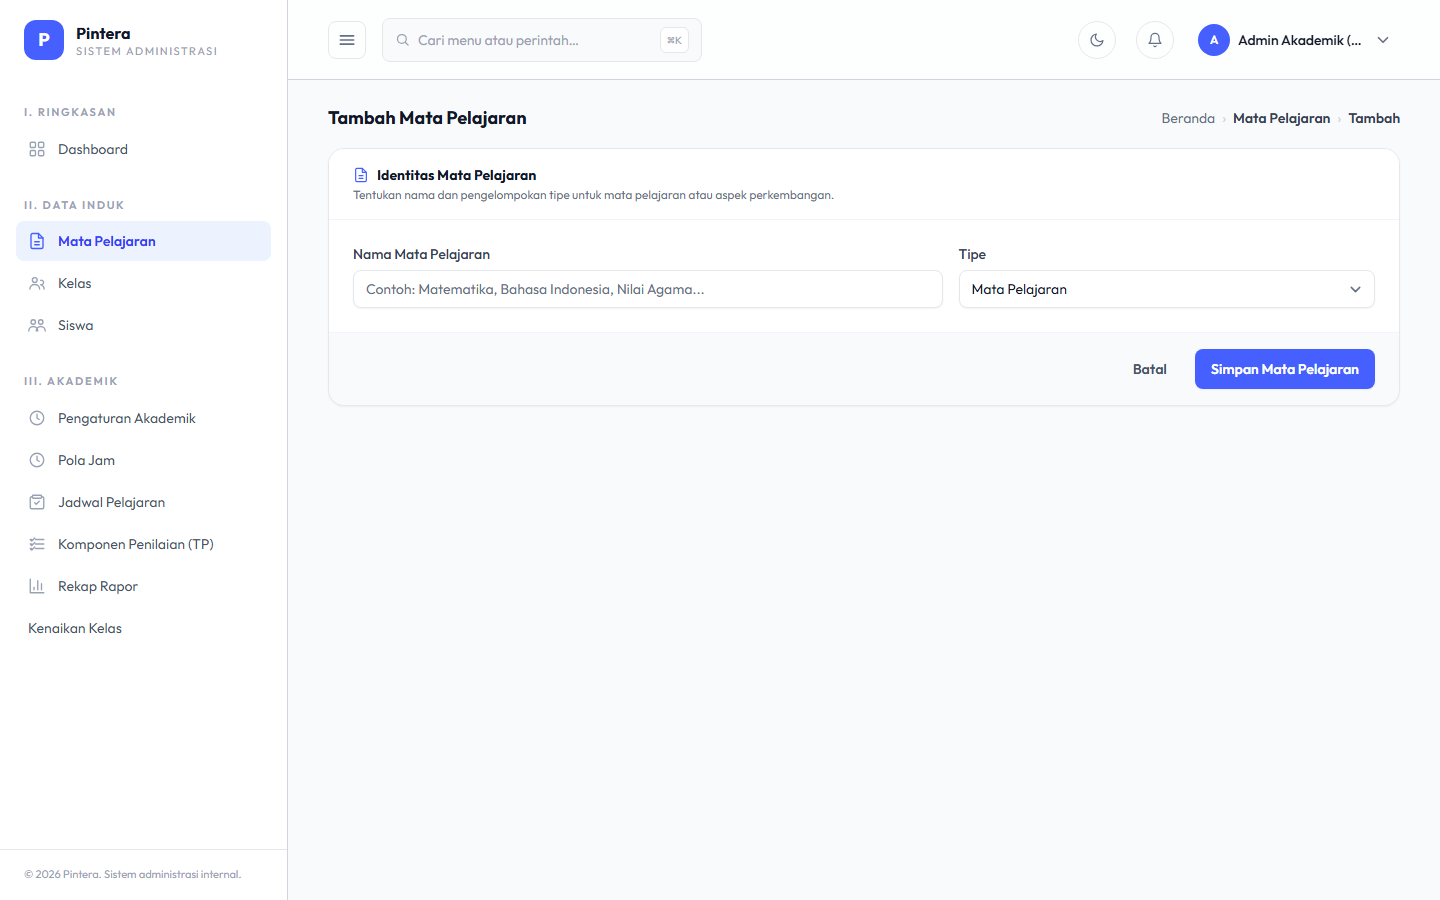
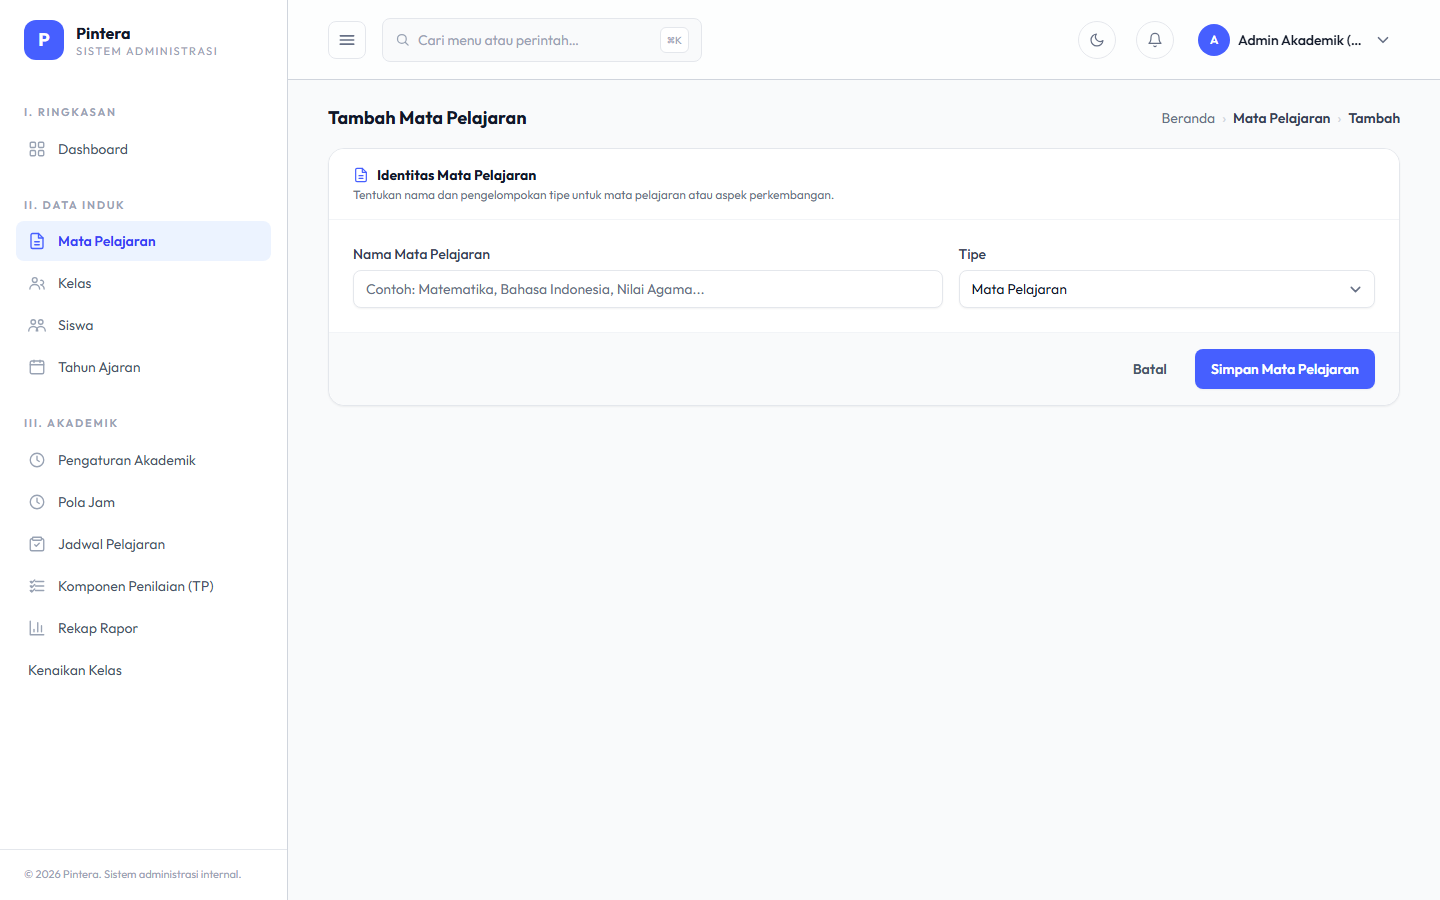
fix: correct Bab 1 to use admin_akademik for Tahun Ajaran & Semester
Now that admin_akademik has the tahun-ajaran/semester permissions (prior
commit), re-captured 01-01 with the intended akademik account instead of
the yayasan workaround, and rewrote the chapter text to match. Also fixed
the shared screenshot script: login() hung when switching accounts within
one run because a second /login visit while already authenticated never
renders the form. The script now opens a fresh browser context per
account switch instead of reusing one page/context across accounts.

Changed region(s): [[0.0, 0.5911, 0.1562, 0.7467], [0.0, 0.4044, 0.125, 0.56]]

diff --git a/docs/manual-book/akademik/01-data-master.md b/docs/manual-book/akademik/01-data-master.md
@@ -2,9 +2,7 @@
 
 ## Untuk siapa
 
-Admin Akademik (`admin_akademik`), per Lembaga. Bagian **Tahun Ajaran & Semester**
-di bawah ini dikecualikan — itu dikelola oleh Yayasan (`yayasan_super_admin`), bukan
-Admin Akademik; disertakan di sini karena semua data lain di bab ini bergantung padanya.
+Admin Akademik (`admin_akademik`), per Lembaga.
 
 ## Prasyarat
 
@@ -13,15 +11,14 @@ Admin Akademik; disertakan di sini karena semua data lain di bab ini bergantung 
 
 ## Langkah-langkah
 
-### 1. Tahun Ajaran & Semester (oleh Yayasan)
+### 1. Tahun Ajaran & Semester
 
-Dikelola oleh akun Yayasan, bukan Admin Akademik — Admin Akademik tidak memiliki akses ke
-halaman ini dan hanya memakai hasilnya (mis. saat memilih Tahun Ajaran di form Kelas).
-Yayasan membuat Tahun Ajaran dulu (mis. "2026/2027"), lalu menambahkan Semester
-Ganjil/Genap di dalamnya. Hanya satu Tahun Ajaran dan satu Semester yang boleh berstatus
-aktif dalam satu waktu; mengaktifkan yang baru otomatis menonaktifkan yang lama.
+Kelola dari satu halaman yang sama — buat Tahun Ajaran dulu (mis. "2026/2027"), lalu
+tambahkan Semester Ganjil/Genap di dalamnya. Hanya satu Tahun Ajaran dan satu Semester
+yang boleh berstatus aktif dalam satu waktu; mengaktifkan yang baru otomatis
+menonaktifkan yang lama.
 
-![Halaman Tahun Ajaran & Semester (akun Yayasan)](images/01-01-tahun-ajaran-semester.png)
+![Halaman Tahun Ajaran & Semester](images/01-01-tahun-ajaran-semester.png)
 
 ### 2. Mata Pelajaran
 
@@ -34,8 +31,8 @@ otomatis tersedia untuk tahun ajaran berikutnya juga, tidak perlu dibuat ulang t
 ### 3. Kelas
 
 Sama seperti Mata Pelajaran, Kelas juga per-Lembaga, tetapi setiap Kelas terikat pada satu
-Tahun Ajaran tertentu (dipilih dari yang sudah dibuat Yayasan di Langkah 1) — bukan
-persisten lintas tahun ajaran seperti Mata Pelajaran. Saat membuat Kelas, tentukan tingkat,
+Tahun Ajaran tertentu (dipilih dari yang sudah dibuat di Langkah 1) — bukan persisten
+lintas tahun ajaran seperti Mata Pelajaran. Saat membuat Kelas, tentukan tingkat,
 wali kelas, dan Pola Jam yang dipakai (Pola Jam sendiri dibuat di
 [Bab 2 — Penjadwalan](02-penjadwalan.md) — kalau belum ada, field ini boleh dikosongkan
 dulu dan diisi belakangan).
@@ -62,9 +59,9 @@ Presensi, dan Kenaikan Kelas.
 
 ## Kesalahan umum
 
-- **Mengira Admin Akademik bisa membuat/mengaktifkan Tahun Ajaran sendiri.** Itu wewenang
-  Yayasan. Kalau Tahun Ajaran baru belum muncul di dropdown saat membuat Kelas, minta
-  Yayasan membuatkan dan mengaktifkannya dulu.
+- **Lupa mengaktifkan Tahun Ajaran/Semester yang baru dibuat.** Tahun Ajaran atau Semester
+  yang belum diaktifkan tidak akan muncul sebagai pilihan default di halaman lain (mis.
+  Kelas, Jadwal Pelajaran) — setelah membuat yang baru, klik **Aktifkan**.
 - **Membuat Mata Pelajaran baru tiap tahun ajaran.** Tidak perlu — Mata Pelajaran memang
   didesain persisten lintas tahun ajaran. Yang berganti tiap tahun ajaran adalah Kelas
   (karena terikat Tahun Ajaran) dan isi Jadwal Pelajarannya (lihat Bab 2).
